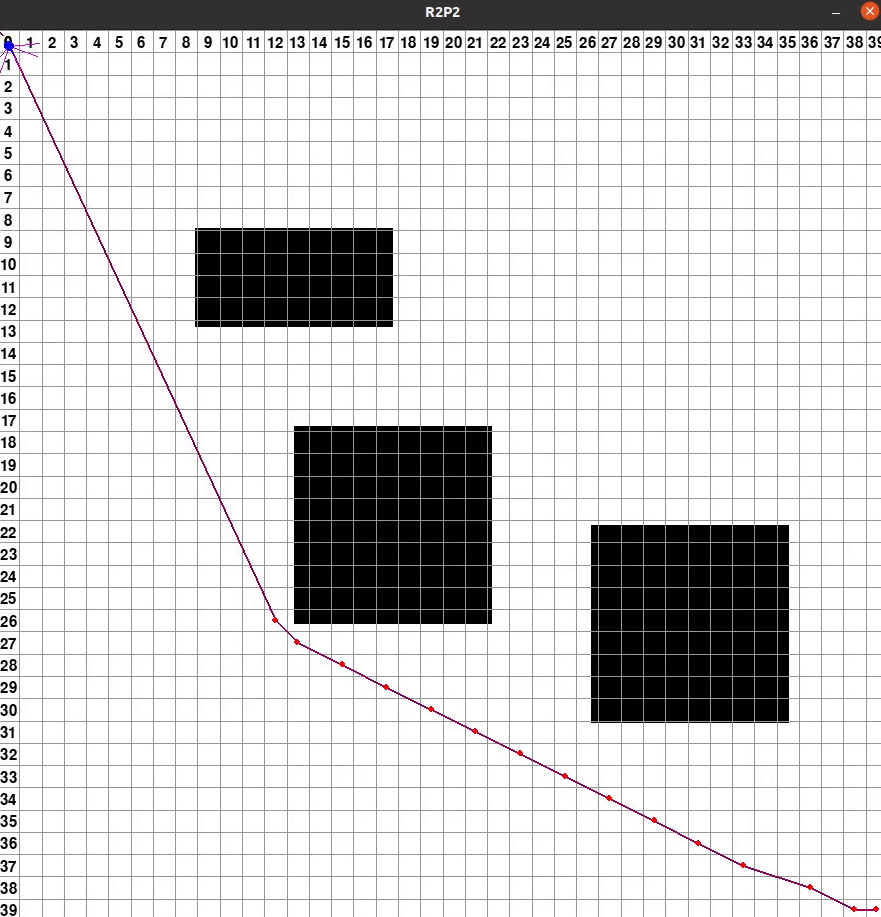
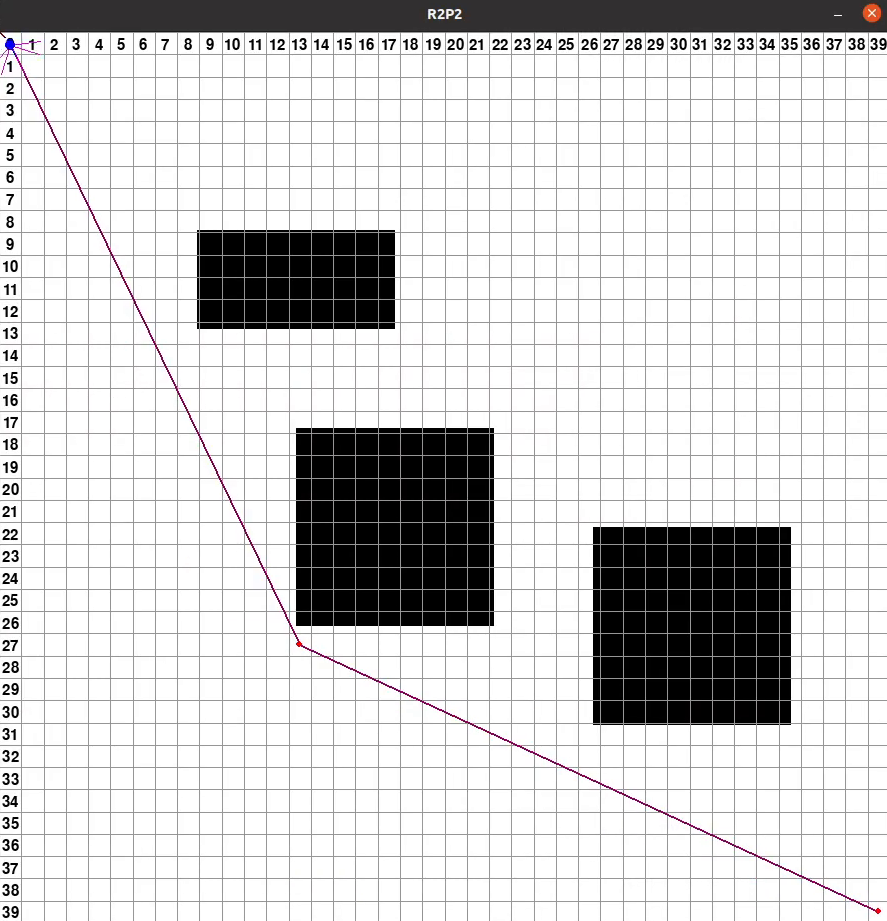
thetaStar fixed
Due to a bad implementation of the A* algorithm the Theta* algorithm didn't work properly

Changed region(s): [[0.0, 0.0, 1.0, 1.0]]

diff --git a/r2p2/thetaStar.py b/r2p2/thetaStar.py
@@ -1,4 +1,5 @@
 import path_planning as pp
+from math import inf
 
 def children(point,grid):
     """
@@ -77,7 +78,7 @@ def lineofsigth(current, node, grid):
                 f = f - dx
             if f != 0 and grid[x0 + ((sx - 1) // 2)][y0 + ((sy - 1) // 2)].value >= 5:
                 return False
-            if dy != 0 and grid[x0 + ((sx - 1) // 2)][y0].value >= 5 and grid[x0 + ((sx - 1) // 2)][y0 - 1].value >= 5:
+            if dy == 0 and grid[x0 + ((sx - 1) // 2)][y0].value >= 5 and grid[x0 + ((sx - 1) // 2)][y0 - 1].value >= 5:
                 return False
             x0 = x0 + sx
     else:
@@ -138,29 +139,27 @@ def thetaStar(start, goal, grid, heur='naive'):
             #If it is already in the closed set, skip it
             if node in closedset:
                 continue
-            #Otherwise if it is already in the open set
-            if node in openset:
-                if current.parent != None and lineofsigth(current.parent, node, grid):
-                    # Path 2
-                    new_g = current.parent.G + current.parent.move_cost(node)
-                    if new_g < node.G:
-                        node.G = new_g
-                        node.parent = current.parent
-                else:
-                    #Check if we beat the G score
-                    new_g = current.G + current.move_cost(node)
-                    if node.G > new_g:
-                        #If so, update the node to have a new parent
-                        node.G = new_g
-                        node.parent = current
+            if node not in openset:
+                node.G = inf
+                node.parent = None
+            if current.parent != None and lineofsigth(current.parent, node, grid):
+                new_g = current.parent.G + current.parent.move_cost(node)
+                if new_g < node.G:
+                    node.G = new_g
+                    node.parent = current.parent
+                    if node in openset:
+                        openset.remove(node)
+                    openset.add(node)
             else:
-                #If it isn't in the open set, calculate the G and H score for the node
-                node.G = current.G + current.move_cost(node)
-                node.H = pp.heuristic[heur](node, goal)
-                #Set the parent to our current item
-                node.parent = current
-                #Add it to the set
-                openset.add(node)
+                #Check if we beat the G score
+                new_g = current.G + current.move_cost(node)
+                if node.G > new_g:
+                    #If so, update the node to have a new parent
+                    node.G = new_g
+                    node.parent = current
+                    if node in openset:
+                        openset.remove(node)
+                    openset.add(node)
     #Throw an exception if there is no path
     raise ValueError('No Path Found')
 
